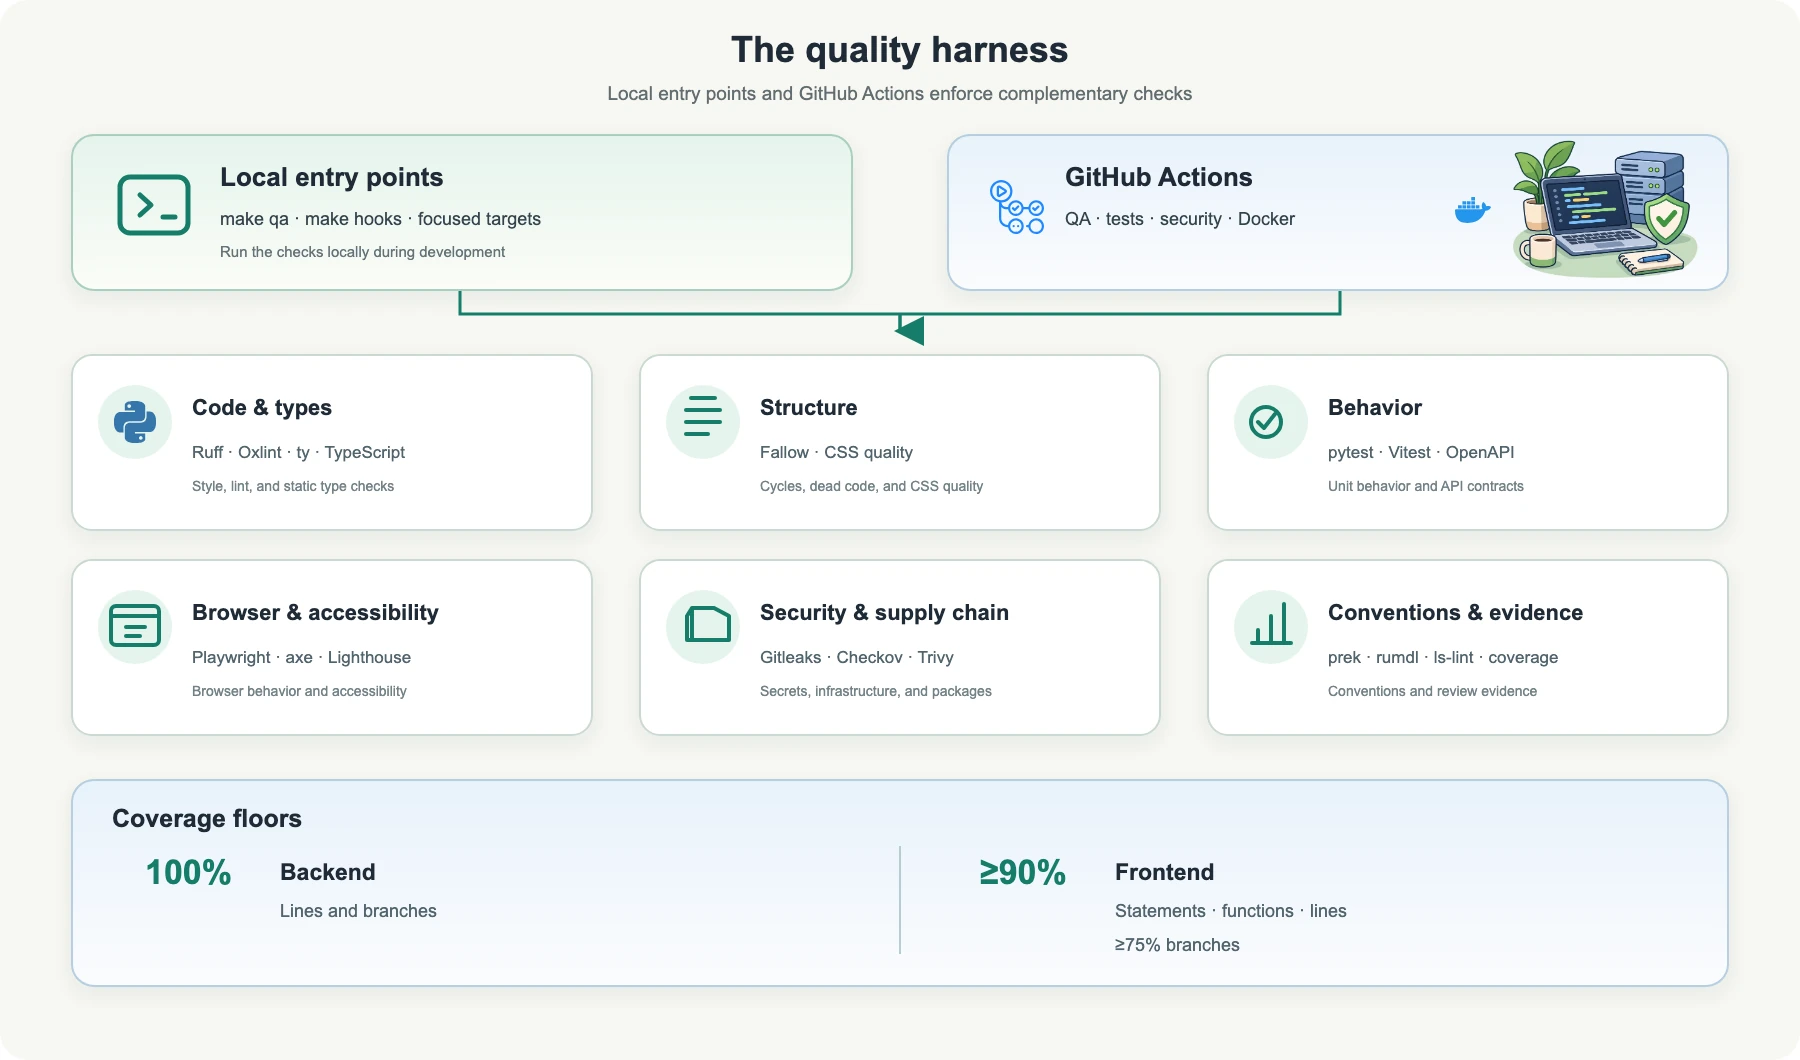
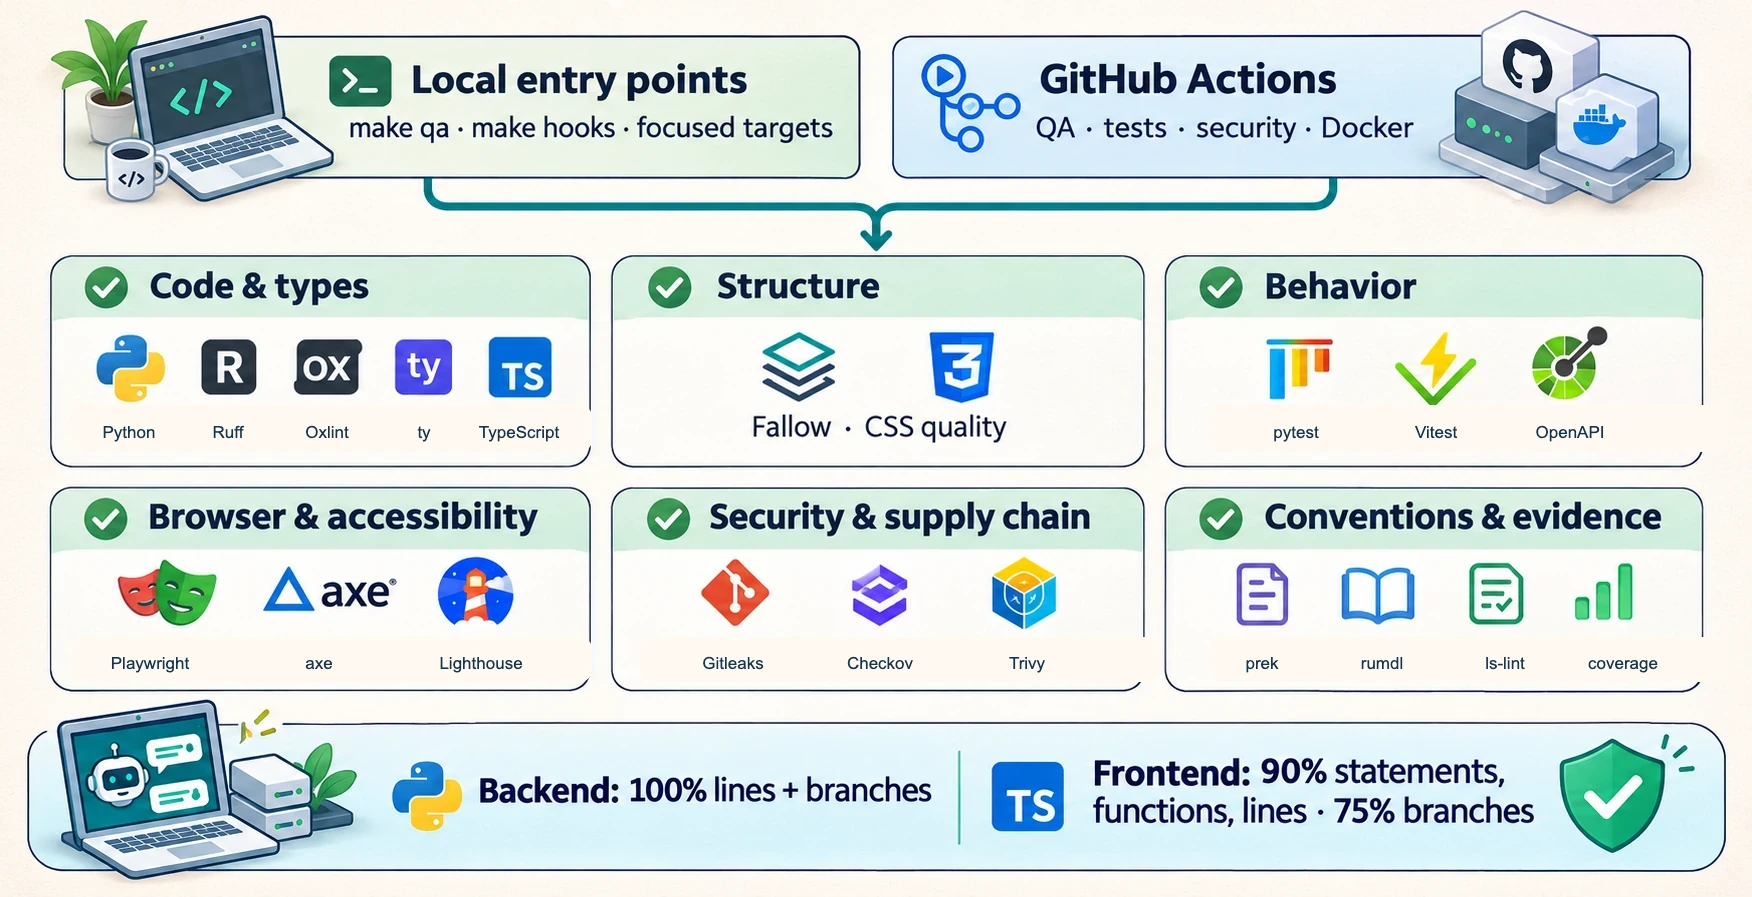
docs(illustrations): restore illustrated diagrams

diff --git a/docs/illustrations.md b/docs/illustrations.md
@@ -1,8 +1,10 @@
 # Documentation illustrations
 
 These illustrations summarize the request path and quality gates. Technical
-details remain in the linked documentation and are the source of truth. Editable
-SVG files compose the diagrams; WebP files are the published versions.
+details remain in the linked documentation and are the source of truth. Rich
+generated artwork supplies the color and depth; editable SVG layers correct
+flow labels and align tool names beneath their icons. WebP files are the
+published versions.
 
 ## Chatbot architecture
 
@@ -14,20 +16,20 @@ SVG files compose the diagrams; WebP files are the published versions.
   FastAPI forwards the request to Azure OpenAI for a streaming completion.
   Text deltas return through FastAPI, the proxy, and the browser. Azure
   credentials remain on the server.
-- **Image prompt:**
+- **Artwork prompt:**
 
   ```text
-  Use case: ui-mockup
-  Asset type: small decorative illustration inside a technical architecture diagram
-  Primary request: Draw a friendly browser chat window as a compact editorial illustration. Show a simple browser frame with a tiny friendly assistant robot, two pale message bubbles, and a send control.
-  Style/medium: refined flat vector art, rounded shapes, fine navy outlines, soft sky-blue and pale green surfaces, subtle depth, crisp and calm.
-  Composition/framing: centered object, front view, square transparent canvas, clear silhouette with even padding.
-  Text (verbatim): none.
-  Constraints: no product marks, no brand logos, no readable text, no watermark; keep the artwork useful at 180 by 130 pixels.
+  Create a polished landscape software architecture illustration with four
+  large, softly rounded stages: Browser, Frontend proxy, FastAPI backend, and
+  Azure OpenAI. Show a friendly chat interface, frontend server stack, request
+  validation, an Azure model endpoint, server-side credentials, and a clear
+  left-to-right request path with streaming responses returning to the browser.
+  Use rich navy outlines, pale green and sky-blue panels, dimensional product
+  symbols, and a warm editorial finish. Keep labels large and avoid extra
+  decorative captions. The final SVG corrects the proxy and streaming labels.
   ```
 
-- **Logo files:** React, Material UI, Vite, nginx, and FastAPI marks are local
-  SVG files under `docs/images/icons/`, sourced from Simple Icons.
+- **Source artwork:** `images/illustration-art/architecture-base.webp`
 
 ## Quality harness
 
@@ -41,32 +43,16 @@ SVG files compose the diagrams; WebP files are the published versions.
   and review evidence. Backend coverage is 100% for lines and branches.
   Frontend coverage is at least 90% for statements, functions, and lines, and
   75% for branches.
-- **Image prompt:**
+- **Artwork prompt:**
 
   ```text
-  Use case: productivity-visual
-  Asset type: small decorative illustration inside a software quality overview
-  Primary request: Draw a cheerful engineering workstation for software quality: a laptop with abstract code glyphs, a compact server stack, and a simple shield with a checkmark.
-  Style/medium: refined flat vector editorial art, soft green, blue and warm neutral colors, tidy navy outlines, light depth, calm and approachable.
-  Composition/framing: compact centered group, three-quarter view, square transparent canvas with even padding, visible as a 200-pixel wide accent.
-  Text (verbatim): none.
-  Constraints: no brand marks or recognizable product logos, no readable words, no watermark; do not add extra characters or decorative rays.
+  Create a wide, warmly textured software quality infographic. Across the top,
+  show local command entry points and GitHub Actions feeding six balanced cards
+  for code and types, structure, behavior, browser and accessibility, security
+  and supply chain, and conventions and evidence. Put each tool symbol above
+  its own name. Finish with a broad coverage panel for backend and frontend
+  thresholds. Use dimensional laptop, plant, server, and tool illustrations,
+  rounded navy outlines, pale green and blue surfaces, and an editorial finish.
   ```
 
-- **Logo files:** GitHub Actions, Docker, and Python marks are local SVG files
-  under `docs/images/icons/`, sourced from Simple Icons.
-
-## Logo sources
-
-| Mark           | Source                                                           |
-| -------------- | ---------------------------------------------------------------- |
-| Docker         | [Simple Icons](https://cdn.simpleicons.org/docker/2496ED)        |
-| FastAPI        | [Simple Icons](https://cdn.simpleicons.org/fastapi/009688)       |
-| GitHub Actions | [Simple Icons](https://cdn.simpleicons.org/githubactions/2088FF) |
-| Material UI    | [Simple Icons](https://cdn.simpleicons.org/mui/007FFF)           |
-| nginx          | [Simple Icons](https://cdn.simpleicons.org/nginx/009639)         |
-| Python         | [Simple Icons](https://cdn.simpleicons.org/python/3776AB)        |
-| React          | [Simple Icons](https://cdn.simpleicons.org/react/61DAFB)         |
-| Vite           | [Simple Icons](https://cdn.simpleicons.org/vite/646CFF)          |
-
-Simple Icons is distributed under [CC0 1.0](https://github.com/simple-icons/simple-icons/blob/develop/LICENSE.md).
+- **Source artwork:** `images/illustration-art/quality-base.webp`

diff --git a/.agents/skills/documentation-illustrations/SKILL.md b/.agents/skills/documentation-illustrations/SKILL.md
@@ -23,8 +23,9 @@ keeping technical details accurate and searchable in the surrounding Markdown.
    asset source and applicable license in the illustration manifest.
 4. Export each final illustration to the format and path already referenced by
    the documentation. Inspect the vector source and exported image at its
-   displayed size; confirm that labels, arrows, and icons are legible and every
-   claim is correct in light and dark viewing contexts where applicable.
+   displayed size; confirm that each logo or icon sits directly with its name,
+   labels and arrows are legible, and every claim is correct in light and dark
+   viewing contexts where applicable.
 5. Keep useful alt text beside each use. Record the final prompts, alt text,
    content summary, and any logo/icon sources in `docs/illustrations.md`.
    Describe the whole visual in alt text without repeating nearby explanatory
